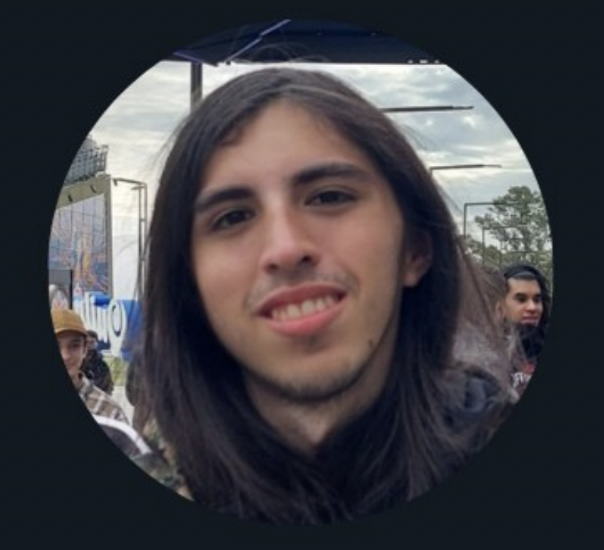
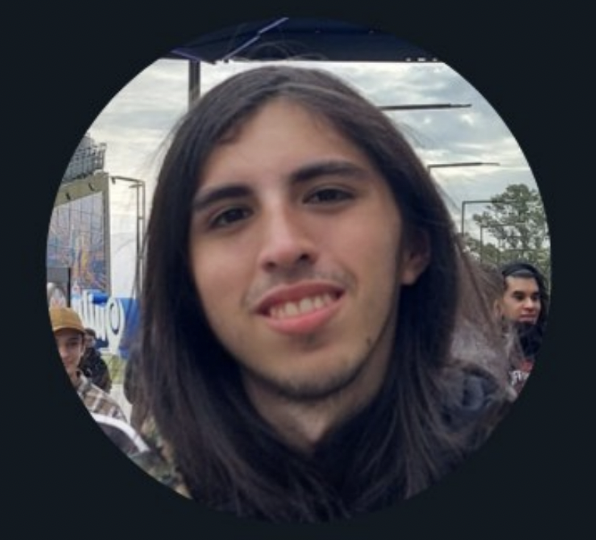
more fixes

diff --git a/src/app/components/aboutUs.tsx b/src/app/components/aboutUs.tsx
@@ -1,3 +1,5 @@
+import Image from "next/image";
+
 interface Data {
     source: string,
     position: string,
@@ -12,11 +14,15 @@ function InfoCard(data: Data) {
                 className="block rounded-lg  border-secundary border-2 p-8 transition hover:bg-white/5"
             >
                 <div className="flex items-stretch gap-4">
-                    <img
-                        src={data.source}
-                        alt=""
-                        className='aspect-square w-0 sm:w-20 md:w-40 rounded-lg object-cover'
-                    />
+                    <div className="relative w-0 md:min-w-40 md:h-40 rounded-lg">
+
+                        <Image
+                            src={data.source}
+                            alt={data.name}
+                            fill
+                            className='object-cover object-center'
+                        />
+                    </div>
 
                     <div>
                         <h2 className=" text-lg/tight sm:text-2xl/tight font-semibold ">{data.position}</h2>
@@ -32,14 +38,17 @@ function InfoCardSmall(data: Data) {
     return (
         <>
             <div
-                className="block rounded-md border border-white p-8 transition hover:bg-white/5"
+                className="block rounded-md border border-white p2 md:p-8 transition hover:bg-white/5"
             >
-                <div className="flex items-stretch gap-4">
-                    <img
-                        src={data.source}
-                        alt=""
-                        className='aspect-square w-0 md:w-20 rounded-lg object-cover'
-                    />
+                <div className="flex items-stretch gap-1 md:gap-4">
+                    <div className="relative w-0 md:min-w-20 md:h-20 rounded-lg ">
+                        <Image
+                            src={data.source}
+                            alt={data.name}
+                            fill
+                            className=' object-cover object-center'
+                        />
+                    </div>
 
                     <div>
                         <h2 className=" text-lg/tight font-semibold">{data.position}</h2>
@@ -64,8 +73,8 @@ export default function AboutUs() {
             career: "Ing. Informática",
         },
         {
-            source: "Inti_CEI.png",
-            position: "Vicepresidente",
+            source: "/Inti_CEI.png",
+            position: "Vice Presidente",
             name: "Inti Blanco",
             career: "Ing. Informática",
         }
@@ -85,13 +94,13 @@ export default function AboutUs() {
             career: "Ing. Civil",
         },
         {
-            source: "Inti.png",
+            source: "/Inti.png",
             position: "2º Titular",
             name: "Inti Blanco",
             career: "Ing. informática",
         },
         {
-            source: "Flor.png",
+            source: "/Flor.png",
             position: "2º Suplente",
             name: "Flor Noguera",
             career: "Ing. Informática",
@@ -146,7 +155,7 @@ export default function AboutUs() {
                     </h3>
                 </div>
 
-                <div className="mt-8 grid grid-cols-2 gap-8 md:grid-cols-3 lg:grid-cols-4">
+                <div className="mt-8 grid grid-cols-2 gap-8 lg:grid-cols-4">
                     {
                         dataConsejo && dataConsejo.map(e =>
                             <InfoCardSmall key={e.name} source={e.source} position={e.position} name={e.name} career={e.career} />)

diff --git a/src/app/components/proposals.tsx b/src/app/components/proposals.tsx
@@ -64,13 +64,13 @@ export default function Proposals() {
                 <div className="max-w-3xl ">
                     <h2 className="text-3xl font-bold sm:text-4xl">Nuestras Propuestas</h2>
 
-                    <p className="mt-4 text-xl text-white">
+                    <p className="mt-4 text-2xl text-white">
                         Creemos que la Argentina necesita más y mejores ingenieros e ingenieras y que la FIUBA debe ser EL motor de transformación del país, aportando más ciencia y más técnica cada día. En todos esto años nuestro objetivo siempre ha sido modernizar nuestras carreras y nuestra Facultad.
                     </p>
-                    <p className="mt-4 text-xl text-white">
+                    <p className="mt-4 text-2xl text-white">
                         También somos concientes que no siempre logramos estar a la altura de las circunstacias. A veces es imposible llevar la carrera al día y atender las reclamos e inquietudes que nos acercan los compañeros. A veces simplemente las cosas no se pueden cambiar de un día para el otro.
                     </p>
-                    <p className="mt-4 text-2xl text-white">
+                    <p className="mt-4 text-3xl text-white">
                         Por eso el trabajo no se detiene, porque estamos decidos a seguir enfrentando los desafíos que nos prepara el futuro.
                     </p>
                 </div>

diff --git a/src/app/components/achievements.tsx b/src/app/components/achievements.tsx
@@ -1,5 +1,4 @@
 'use client'
-import { type } from "os";
 import { useEffect, useState } from "react";
 import { UAParser } from "ua-parser-js";
 
